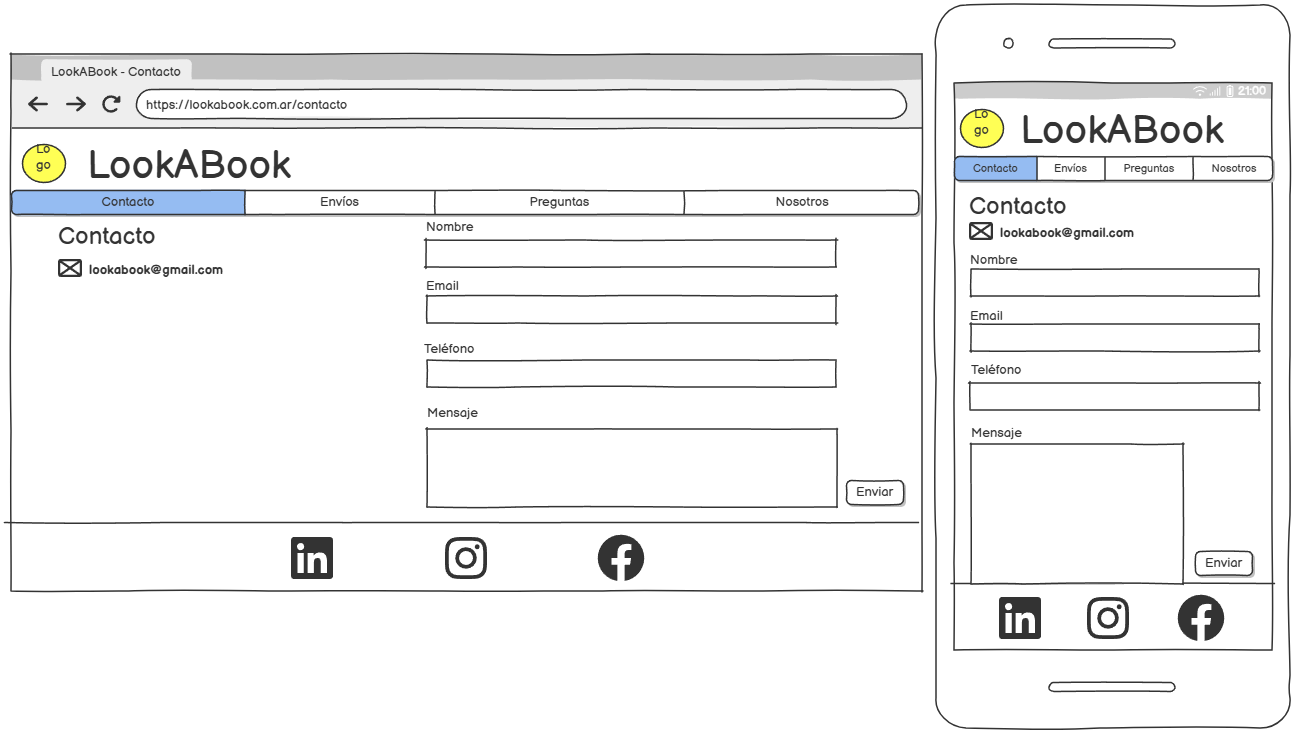
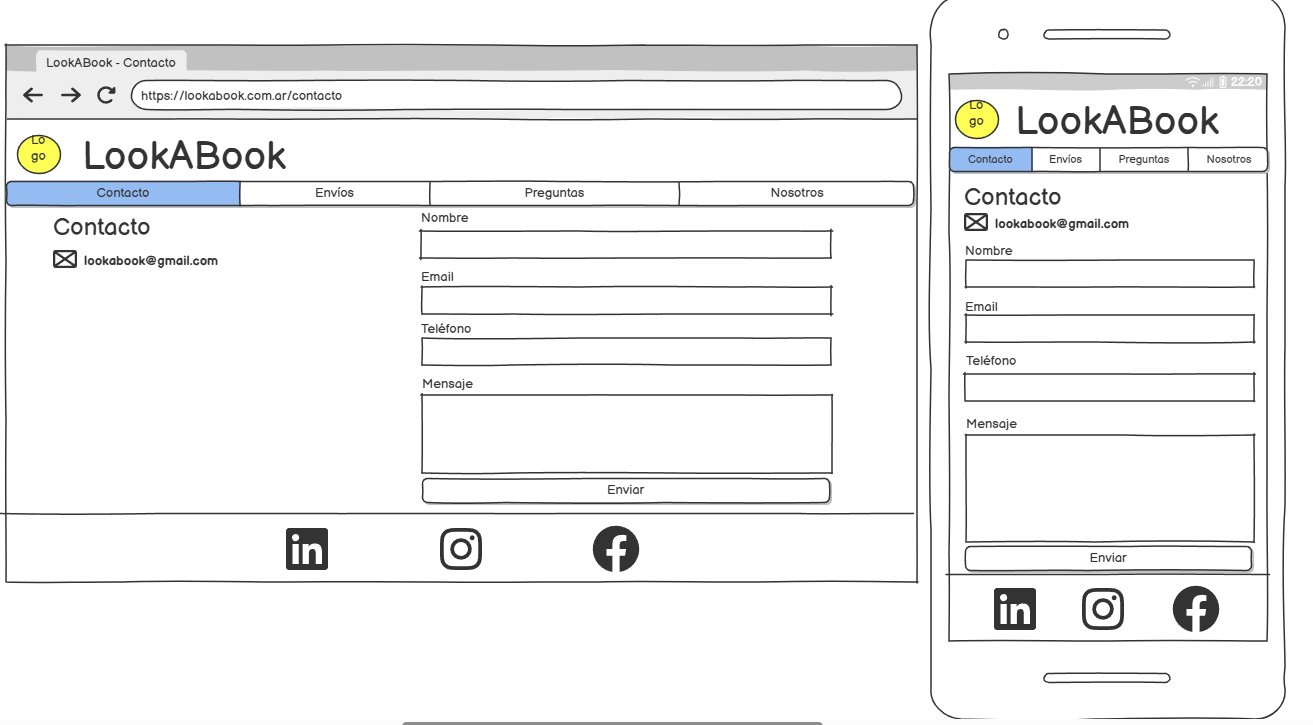
versión 1.3

diff --git a/styles/estilo-unico.css b/styles/estilo-unico.css
@@ -132,7 +132,7 @@ p{
 #columna-izquierda {
     display: flex;
     gap: 20px;
-    width: 20%;
+    width: 40%;
     margin-left: 20px;
 }
   
